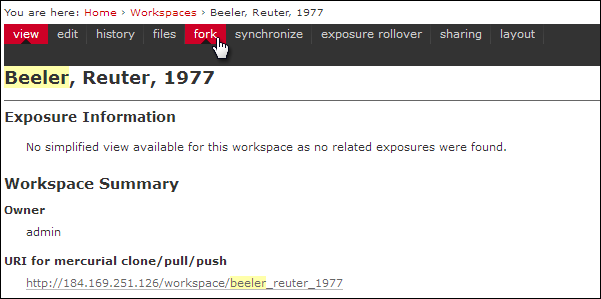
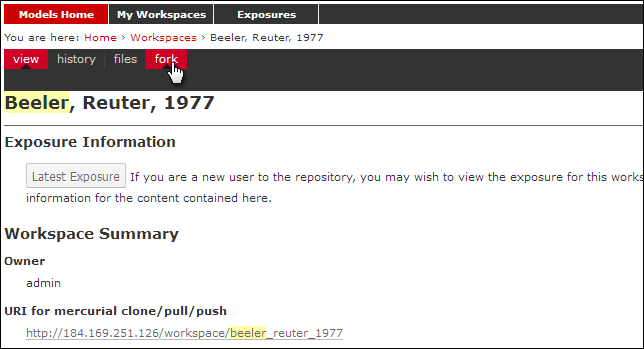
further updates to PMR tutorial

Changed region(s): [[0.0, 0.0, 1.0, 0.4214], [0.0, 0.4515, 1.0, 0.903], [0.0, 0.903, 1.0, 1.0]]

diff --git a/PMR/PMR-cellmlrepositorytutorial.rst b/PMR/PMR-cellmlrepositorytutorial.rst
@@ -136,14 +136,14 @@ Forking an existing workspace
 
 For this tutorial we will *fork* an existing workspace. This creates new workspace owned by you, containing a copy of all the files in the workspace you forked including their complete history. This is equivalent to cloning the workspace, creating a new workspace for yourself, and then pushing the contents of the cloned workspace into your new workspace.
 
-Forking a workspace can be done using the Physiome model repository web interface. The first step is to find the workspace you wish to fork. We will use the Beeler, Reuter 1977 workspace which can be found by entering ``beeler reuter`` into the search box at the top right corner of the page. Click on the top result, which will take you to the :term:`exposure` page for the Beeler Reuter 1977 model.
+Forking a workspace can be done using the Physiome model repository web interface. The first step is to find the workspace you wish to fork. We will use the Beeler, Reuter 1977 workspace which can be found by entering ``beeler reuter`` into the search box at the top right corner of the page. Click on the top result, which will take you to the :term:`workspace` page for the Beeler Reuter 1977 model.
 
 Now click on the *fork* option in the toolbar, as shown below.
 
 .. figure:: /PMR/images/PMR-fork1.png
    :align: center
 
-You will be asked to create a new ID for the workspace. Typically this is something like the existing workspace name plus initials, a text tag that indicates the purpose of the fork, or some other short addition to the original name. Create a fork called``beeler_reuter_1977_tut``. You will then be shown the page for your forked workspace.
+You will be asked to create a new ID for the workspace. Typically this is something like the existing workspace name plus initials, a text tag that indicates the purpose of the fork, or some other short addition to the original name. Create a fork called ``beeler_reuter_1977_username``, for example. You will then be shown the page for your forked workspace.
 
 Cloning your forked workspace
 -----------------------------
@@ -166,12 +166,14 @@ Paste the copied URL into the *Source:* area and then click the *Clone* button. 
 
    hg clone [URI]
    
+You will need to enter your username and password to clone the workspace, as the fork will be set to *private* when it is created.
+   
 The repository will be cloned within the current directory of your command line window.
 
 Making changes to workspace contents
 ------------------------------------
 
-Your cloned workspace is now ready for you to edit the model file and make a commit each time you want to save the changes you have made. As an example, open the model file in Notepad++ and remove the paragraph which describes validation errors from the documentation section, as shown below:
+Your cloned workspace is now ready for you to edit the model file and make a commit each time you want to save the changes you have made. As an example, open the model file in your text editor and remove the paragraph which describes validation errors from the documentation section, as shown below:
 
 .. figure:: /PMR/images/PMR-tut1-editcellmlfile.png
    :align: center
@@ -211,38 +213,14 @@ Now navigate to your workspace and click on the history toolbar button. This wil
 .. figure:: /PMR/images/PMR-tut1-newhistoryentry.png
    :align: center
 
-Creating exposures
+Create an exposure
 ==================
-
-See the documents on :ref:`PMR-exposing-cellml` or :ref:`PMR-exposing-fieldml`.
-   
-Making an exposure using "roll-over"
-====================================
 
 As explained earlier, an :term:`exposure` aims to bring a particular revision to the attention of users who are browsing and searching the repository.
 
-There are two ways of making an exposure. "Rolling over" an exposure is the method used when a workspace already has an existing exposure, and the updates to the workspace have not fundamentally changed the structure of the workspace.  This means that all the information used in making the previous exposure is still valid for making a new exposure of a more recent revision of the workspace. Strictly speaking, an exposure can be rolled over to an older revision as well, but this is not the usual usage.
+There are two ways of making an exposure - creating a new exposure from scratch, or "Rolling over" an exposure. Rolling over is used when a workspace already has an existing exposure, and the updates to the workspace have not fundamentally changed the structure of the workspace.  This means that all the information used in making the previous exposure is still valid for making a new exposure of a more recent revision of the workspace. Strictly speaking, an exposure can be rolled over to an older revision as well, but this is not the usual usage.
 
-.. note::
-   A forked workspace contains all of the revision history of the workspace it was created from, but does not contain any of the exposures that existed for the original workspace. You will always need to create an exposure from scratch in forked repositories.
-
-From the view page of your workspace, select "exposure rollover".
-
-.. figure:: /PMR/images/PMR-tut1-rolloverbutton.png
-   :align: center
-
-The exposure rollover button takes you to a list of revisions of the workspace, with existing exposures on the right hand side, and revision ids on the left. Each revision id has a radio button, used to select the revision you wish to create a new rolled over exposure for. Each existing exposure also has a radio button, used to select the exposure you wish to base your new one on. The most common use case is to select the latest exposure and the latest revision, and then click the *Migrate* button at the bottom of the list.
-
-.. figure:: /PMR/images/PMR-tut1-rolloverlist.png
-   :align: center
-
-The new exposure will be created and displayed. When a new exposure is created, it is initially put in the *private* state. This means that only the user who created it or other users with appropriate permissions can see it, and it will not appear in search results or model listings. In order to publish the exposure, you will need to select *submit for publication* from the *state* menu.
-
-.. figure:: /PMR/images/PMR-tut1-submitforpublication.png
-   :align: center
-
-The state will change to "pending review". The administrator or curators of the repository will then review and publish the exposure, as well as expiring the old exposure.
+As you are working in a forked repository, you will need to create a new exposure from scratch. To learn how to create exposures, please refer to :ref:`PMR-exposing-cellml`.
 
 
-.. _Physiome model repository: http://models.physiomeproject.org
    

diff --git a/PMR/PMR-exposing-cellml.rst b/PMR/PMR-exposing-cellml.rst
@@ -146,5 +146,4 @@ The new exposure will be created and displayed. When a new exposure is created, 
 
 The state will change to "pending review". The administrator or curators of the repository will then review and publish the exposure, as well as expiring the old exposure.
 
-
 .. _Physiome model repository: http://models.physiomeproject.org
